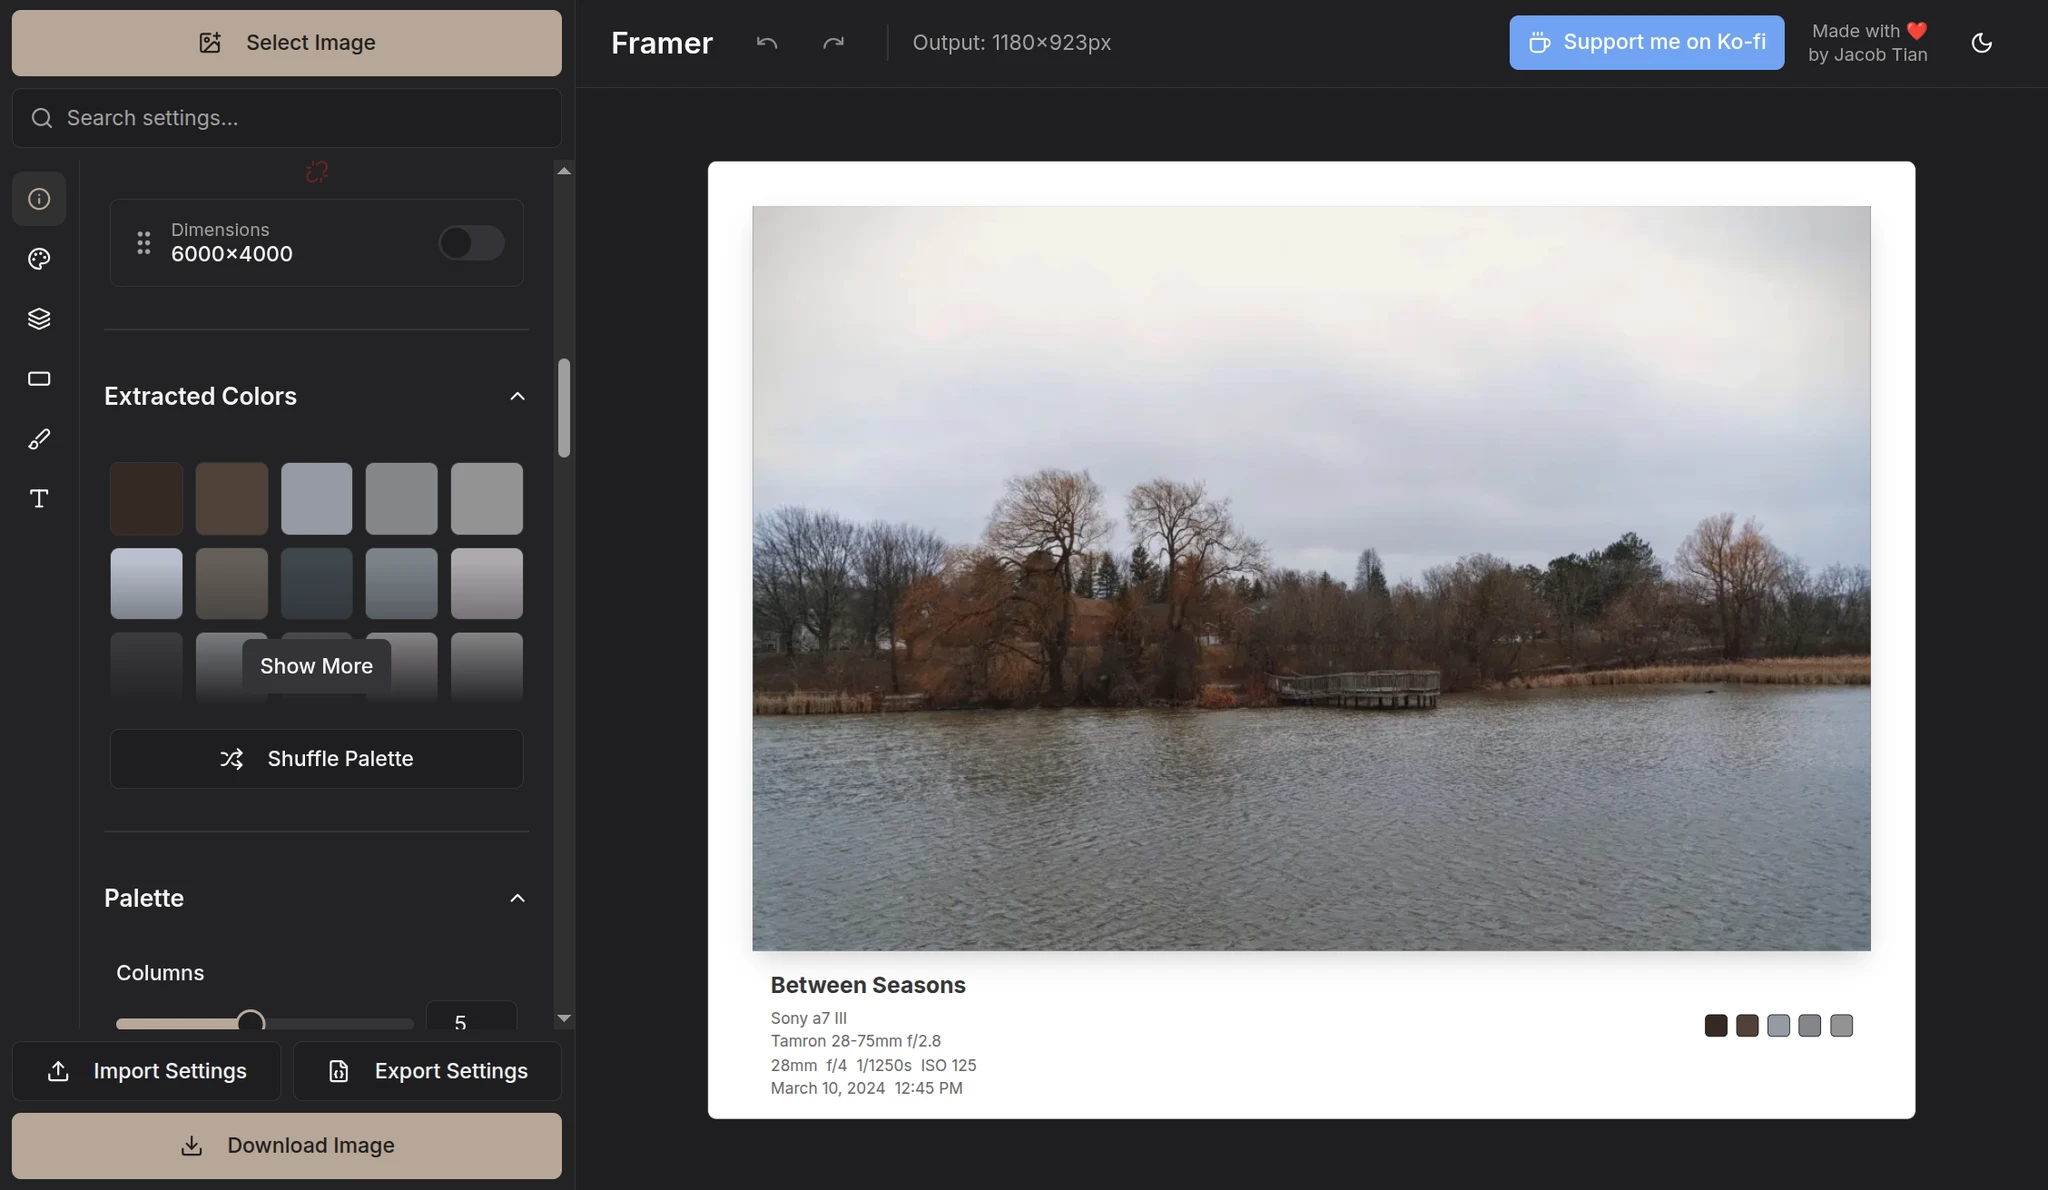
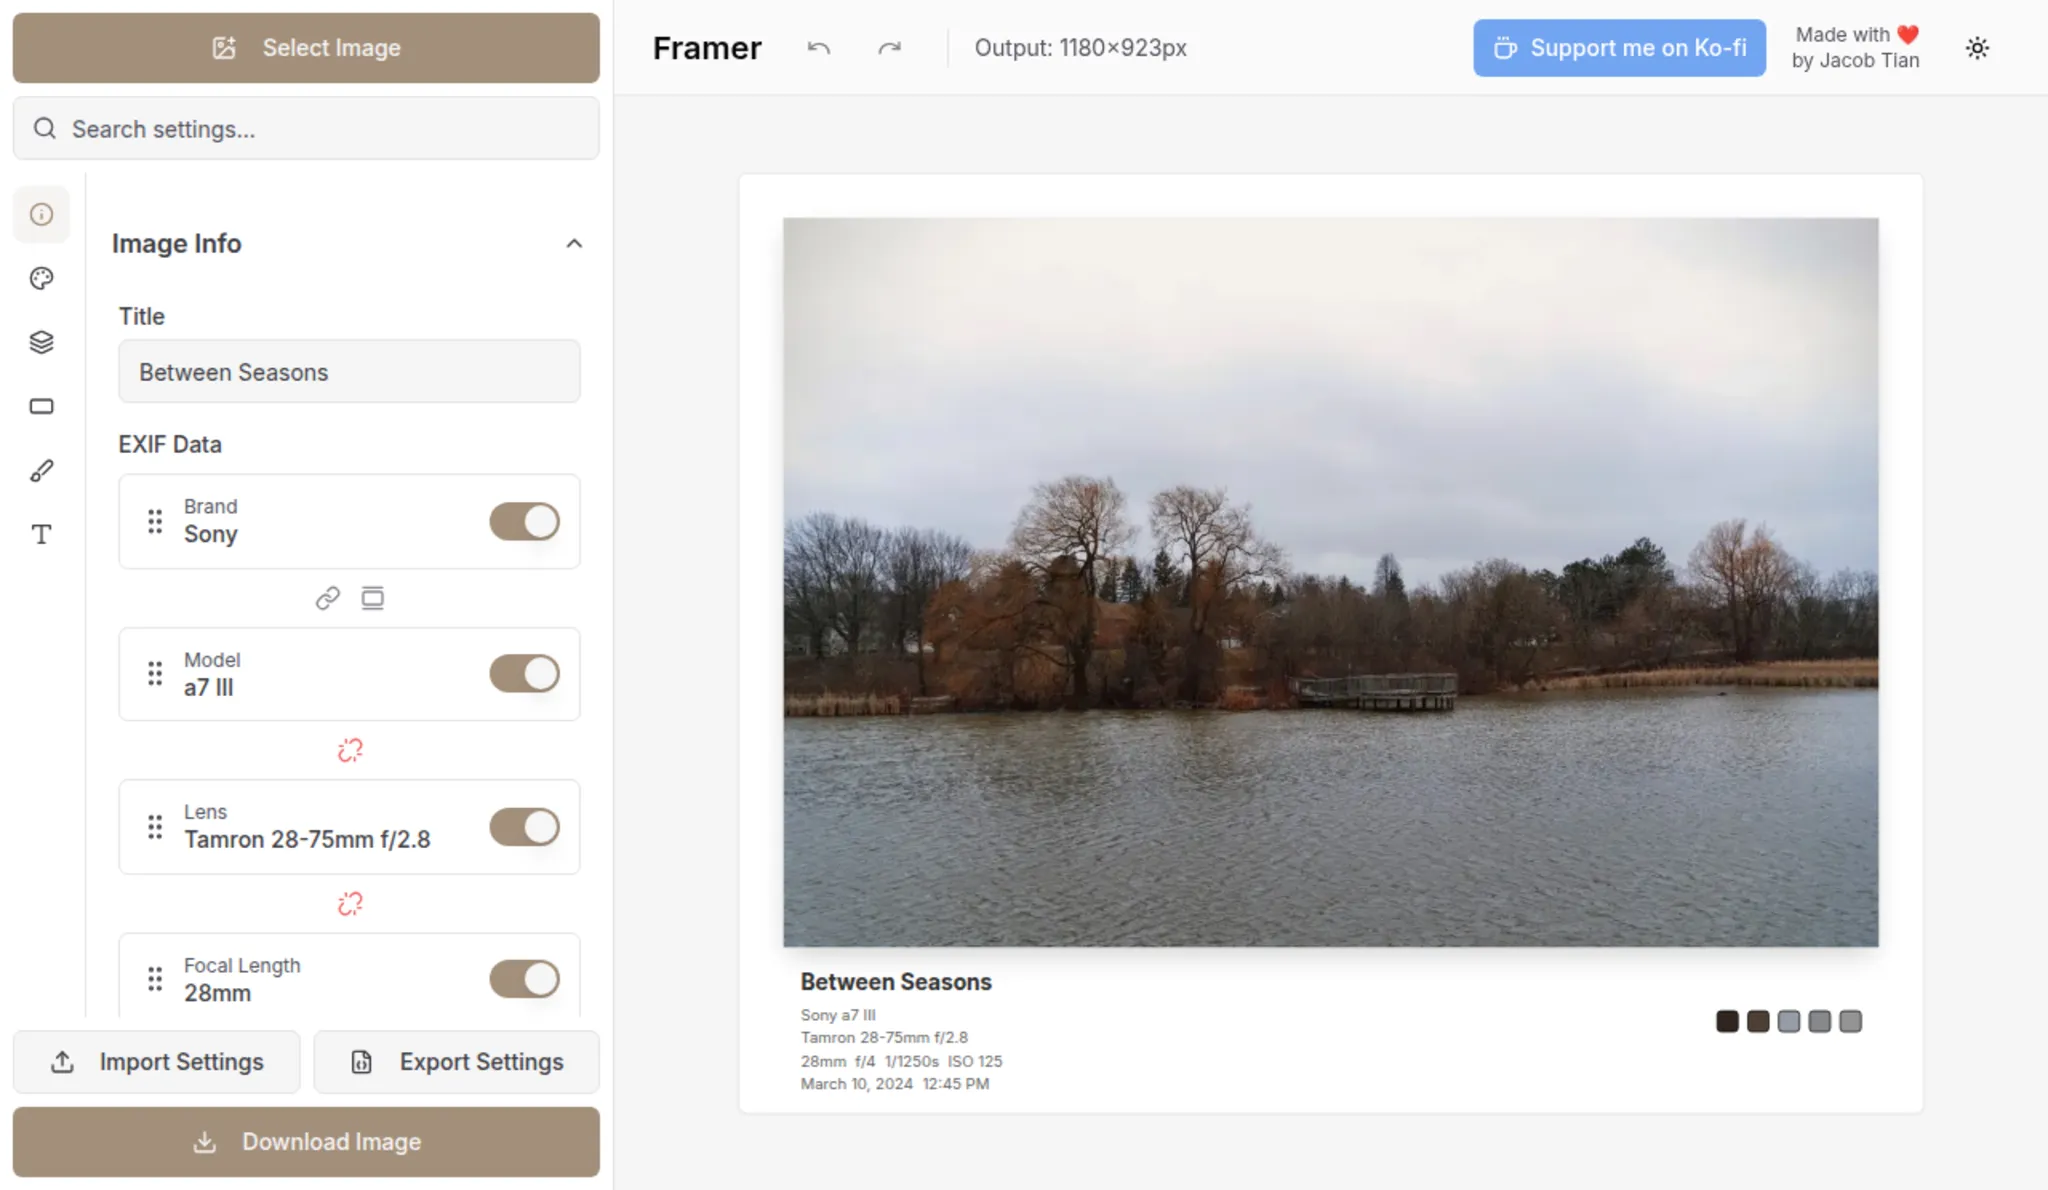
feat: redesign app showcase to include Exposure and support dark mode

diff --git a/_layouts/home.html b/_layouts/home.html
@@ -17,20 +17,15 @@ refactor: true
         }
 
         :root {
-            --card-bg-color-light: #fff;
-            --card-text-color-light: #000;
-            --card-bg-color-dark: #333;
-            --card-text-color-dark: #fff;
+            --card-bg-color-light: var(--card-bg);
+            --card-text-color-light: var(--text-color);
+            --card-bg-color-dark: var(--card-bg);
+            --card-text-color-dark: var(--text-color);
         }
 
         .card {
-            background-color: var(--card-bg-color-dark);
-            color: var(--card-text-color-dark);
-        }
-
-        [data-mode="light"] .card {
-            background-color: var(--card-bg-color-light);
-            color: var(--card-text-color-light);
+            background-color: var(--card-bg);
+            color: var(--text-color);
         }
 
         #search-result-wrapper {
@@ -71,75 +66,111 @@ refactor: true
         }
 </style>
 
-<!-- Framer promo section (replaces Achievements on Home) -->
+<!-- Apps Showcase section -->
 <hr class="my-5">
-<section id="framer-promo" class="framer-promo">
-  <div class="row">
-    <div class="col-12 mb-4">
-      <h2 class="display-5 mb-3"><strong>Framer - Beautiful EXIF border frames</strong></h2>
-      <p class="lead text-muted mb-3">Generate fully-customizable, elegant EXIF frames for your photos. Add a palette grabbed straight from your photo, adjust borders, positioning, size, and export framed images ready for sharing or printing.</p>
-      <ul class="mb-3">
-        <li>EXIF data and colour palettes extracted from your photos automatically</li>
-        <li>Adjust borders, positioning, and size</li>
-        <li>Export framed images with no watermarks</li>
-        <li>Completely customizable to fit your style</li>
-      </ul>
-      <p>
-        <a class="btn btn-primary btn-lg me-2" href="https://framer.jacobtian.com" target="_blank" rel="noopener">Open Framer</a>
-      </p>
-      <p class="mt-2"><a href="https://framer.jacobtian.com" class="small text-muted" target="_blank" rel="noopener">framer.jacobtian.com</a></p>
+<section id="apps-showcase" class="apps-showcase">
+  <div class="row g-4">
+    <!-- Framer -->
+    <div class="col-lg-6">
+      <div class="app-card shadow-sm h-100">
+        <div class="app-frame">
+          <img src="/assets/img/framer_result.webp" alt="Framer preview" class="img-fluid app-screenshot light">
+          <img src="/assets/img/framer_result_dark.webp" alt="Framer preview dark" class="img-fluid app-screenshot dark">
+          <div class="app-badge">Framer</div>
+        </div>
+        <div class="app-content p-4">
+          <h3 class="h3 mb-2"><strong>Beautiful EXIF border frames</strong></h3>
+          <p class="text-muted mb-3">Generate elegant EXIF frames for your photos with automatic color palette extraction and full customization.</p>
+          <div class="mt-auto">
+            <a class="btn btn-outline-primary btn-sm me-2" href="https://framer.jacobtian.com" target="_blank" rel="noopener">Open Framer</a>
+            <a href="https://framer.jacobtian.com" class="small text-muted text-decoration-none" target="_blank" rel="noopener">framer.jacobtian.com</a>
+          </div>
+        </div>
+      </div>
     </div>
 
-    <div class="col-12">
-      <div class="framer-frame shadow-lg">
-        <img src="/assets/img/framer_result.webp" alt="Framer preview" class="img-fluid framer-screenshot">
-        <div class="framer-badge">New</div>
+    <!-- Exposure -->
+    <div class="col-lg-6">
+      <div class="app-card shadow-sm h-100">
+        <div class="app-frame">
+          <img src="/assets/img/exposure_result.webp" alt="Exposure preview" class="img-fluid app-screenshot">
+          <div class="app-badge">Exposure</div>
+        </div>
+        <div class="app-content p-4">
+          <h3 class="h3 mb-2"><strong>Modern Photography Calculator</strong></h3>
+          <p class="text-muted mb-3">A suite of technical tools for photographers: exposure comparison, DOF, astro, time-lapse, and more.</p>
+          <div class="mt-auto">
+            <a class="btn btn-outline-primary btn-sm me-2" href="https://exposure.jacobtian.com" target="_blank" rel="noopener">Open Exposure</a>
+            <a href="https://exposure.jacobtian.com" class="small text-muted text-decoration-none" target="_blank" rel="noopener">exposure.jacobtian.com</a>
+          </div>
+        </div>
       </div>
     </div>
   </div>
 </section>
 
 <style>
-  /* Framer promo visuals */
-  .framer-promo { opacity: 1; transform: none; transition: opacity 600ms cubic-bezier(.2,.9,.2,1); }
+  /* Apps showcase visuals */
+  .apps-showcase { opacity: 1; transform: none; transition: opacity 600ms cubic-bezier(.2,.9,.2,1); }
 
-  .framer-frame { position: relative; border-radius: 1rem; overflow: hidden; background: var(--card-bg-color-light); }
-  .framer-frame .framer-screenshot { display: block; width: 100%; height: auto; transform: translateY(6px); transition: transform 450ms ease; }
-  .framer-frame:hover .framer-screenshot { transform: translateY(0) scale(1.01); }
+  .app-card {
+    display: flex;
+    flex-direction: column;
+    border-radius: 1rem;
+    overflow: hidden;
+    background-color: var(--card-bg);
+    color: var(--text-color);
+    transition: transform 0.3s ease, box-shadow 0.3s ease;
+    border: 1px solid var(--main-border-color);
+  }
 
-  .framer-badge { position: absolute; right: 1rem; top: 1rem; background: rgba(0,0,0,0.8); color: #fff; padding: .35rem .6rem; border-radius: .5rem; font-size: .8rem; font-weight: 600; box-shadow: 0 6px 18px rgba(0,0,0,.25); }
+  .app-card:hover {
+    transform: translateY(-5px);
+    box-shadow: 0 12px 24px rgba(0,0,0,0.15) !important;
+  }
+
+  .app-frame { position: relative; overflow: hidden; background: #1a1a1a; }
+  .app-frame .app-screenshot { display: block; width: 100%; height: auto; transition: transform 450ms ease; }
+  .app-card:hover .app-screenshot { transform: scale(1.02); }
+
+  .app-badge { 
+    position: absolute; right: 1rem; top: 1rem; 
+    background: rgba(0,0,0,0.7); color: #fff; 
+    padding: .25rem .6rem; border-radius: .5rem; 
+    font-size: .75rem; font-weight: 600; 
+    backdrop-filter: blur(4px);
+    z-index: 2;
+  }
 
   /* subtle floating glow */
-  .framer-frame::after {
+  .app-frame::after {
     content: '';
     position: absolute; inset: -40%; background: radial-gradient(ellipse at center, rgba(255,255,255,0.06), transparent 35%);
-    transform: translateY(6px); transition: transform 900ms ease;
+    transition: transform 900ms ease;
     pointer-events: none;
   }
-  .framer-frame:hover::after { transform: translateY(0); }
 
-  /* responsive tweaks */
-  @media (max-width: 991px) {
-    .framer-frame { margin: 0 auto; max-width: 720px; }
+  /* short description text coloring */
+  .app-content p {
+    color: var(--text-muted-color);
   }
 
   /* small loading shimmer for image while asset loads */
-  .framer-screenshot[data-loading="true"]{ background: linear-gradient(90deg,#f3f3f3 25%, #ececec 37%, #f3f3f3 63%); background-size: 400% 100%; animation: shimmer 1.6s linear infinite; }
+  .app-screenshot[data-loading="true"]{ background: linear-gradient(90deg,#f3f3f3 25%, #ececec 37%, #f3f3f3 63%); background-size: 400% 100%; animation: shimmer 1.6s linear infinite; }
   @keyframes shimmer { 0%{background-position:100% 0}100%{background-position:0 0} }
 </style>
 
 <script>
   document.addEventListener('DOMContentLoaded', function(){
-    var promo = document.getElementById('framer-promo');
-    if(!promo) return;
+    var showcase = document.getElementById('apps-showcase');
+    if(!showcase) return;
 
     // image loading shimmer fallback
-    var img = promo.querySelector('.framer-screenshot');
-    if(img){
+    showcase.querySelectorAll('.app-screenshot').forEach(function(img){
       img.setAttribute('data-loading','true');
       img.addEventListener('load', function(){ img.removeAttribute('data-loading'); });
       // if cached already
       if(img.complete) img.removeAttribute('data-loading');
-    }
+    });
   });
 </script>